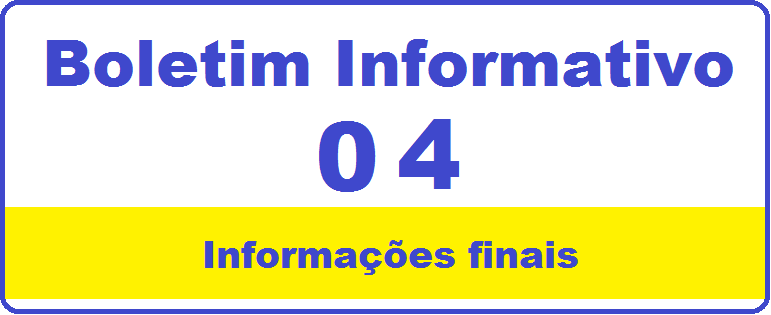
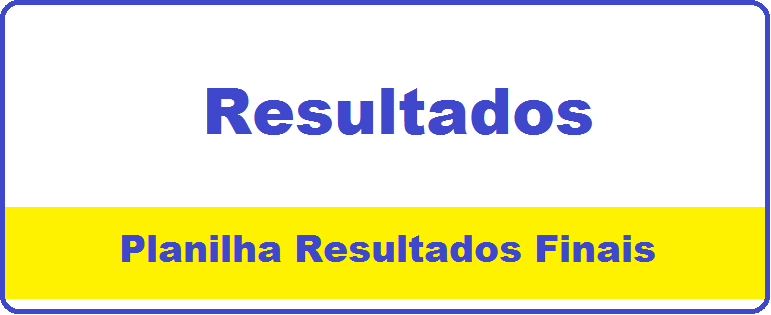
v1.0

Changed region(s): [[0.0623, 0.1143, 0.965, 0.6286], [0.1556, 0.7429, 0.8716, 0.8857]]

diff --git a/index.html b/index.html
@@ -339,7 +339,7 @@
           <table style="border-collapse: collapse; width: 100%;" border="0">
             <tbody>
             <tr>
-              <td style="width: 240"><a href="http://camellosadventure.com.br/assets/pdf/Camellos_Perdoes_2022_Informativo_01.pdf"> <img src="http://camellosadventure.com.br/assets/img/boletim01.png" alt="" /> </a> </td>
+              <td style="width: 240"><a href="https://docs.google.com/spreadsheets/d/1rSGn50qM_6Y60niJmKnN6SLc2OTXpJwhXISV8EAl5C0/edit?usp=sharing"> <img src="http://camellosadventure.com.br/assets/img/Resultados.png" alt="" /> </a> </td>
             </tr>
             </tbody>
           </table>
@@ -379,11 +379,11 @@
           <table style="border-collapse: collapse; width: 100%;" border="0">
             <tbody>
             <tr>
-            <td style="width: 360"><a href="http://camellosadventure.com.br/assets/pdf/Camellos_Perdoes_2022_Informativo_01.pdf"> <img src="http://camellosadventure.com.br/assets/img/boletim01.png" alt="" /> </a> </td>
+            <td style="width: 360"><a href="https://docs.google.com/spreadsheets/d/1rSGn50qM_6Y60niJmKnN6SLc2OTXpJwhXISV8EAl5C0/edit?usp=sharing"> <img src="http://camellosadventure.com.br/assets/img/Resultados.png" alt="" /> </a> </td>
+            <!--
             <td style="width: 360"><a href="http://camellosadventure.com.br/assets/pdf/Camellos_Perdoes_2022_Informativo_02.pdf"> <img src="http://camellosadventure.com.br/assets/img/boletim02.png" alt="" /> </a> </td>
             <td style="width: 360"><a href="http://camellosadventure.com.br/assets/pdf/Camellos_Perdoes_2022_Informativo_03.pdf"> <img src="http://camellosadventure.com.br/assets/img/boletim03.png" alt="" /> </a> </td>
             <td style="width: 360"><a href="http://camellosadventure.com.br/assets/pdf/Camellos_Perdoes_2022_Informativo_04.pdf"> <img src="http://camellosadventure.com.br/assets/img/boletim04.png" alt="" /> </a> </td>
-            <!--
             <td style="width: 7%;">&nbsp;</td>
             <td style="width: 20%;"><a href="#"> <img src="http://camellosadventure.com.br/assets/img/etapa2.png" alt="" /> </a> </td>
             <td style="width: 6%;">&nbsp;</td>
